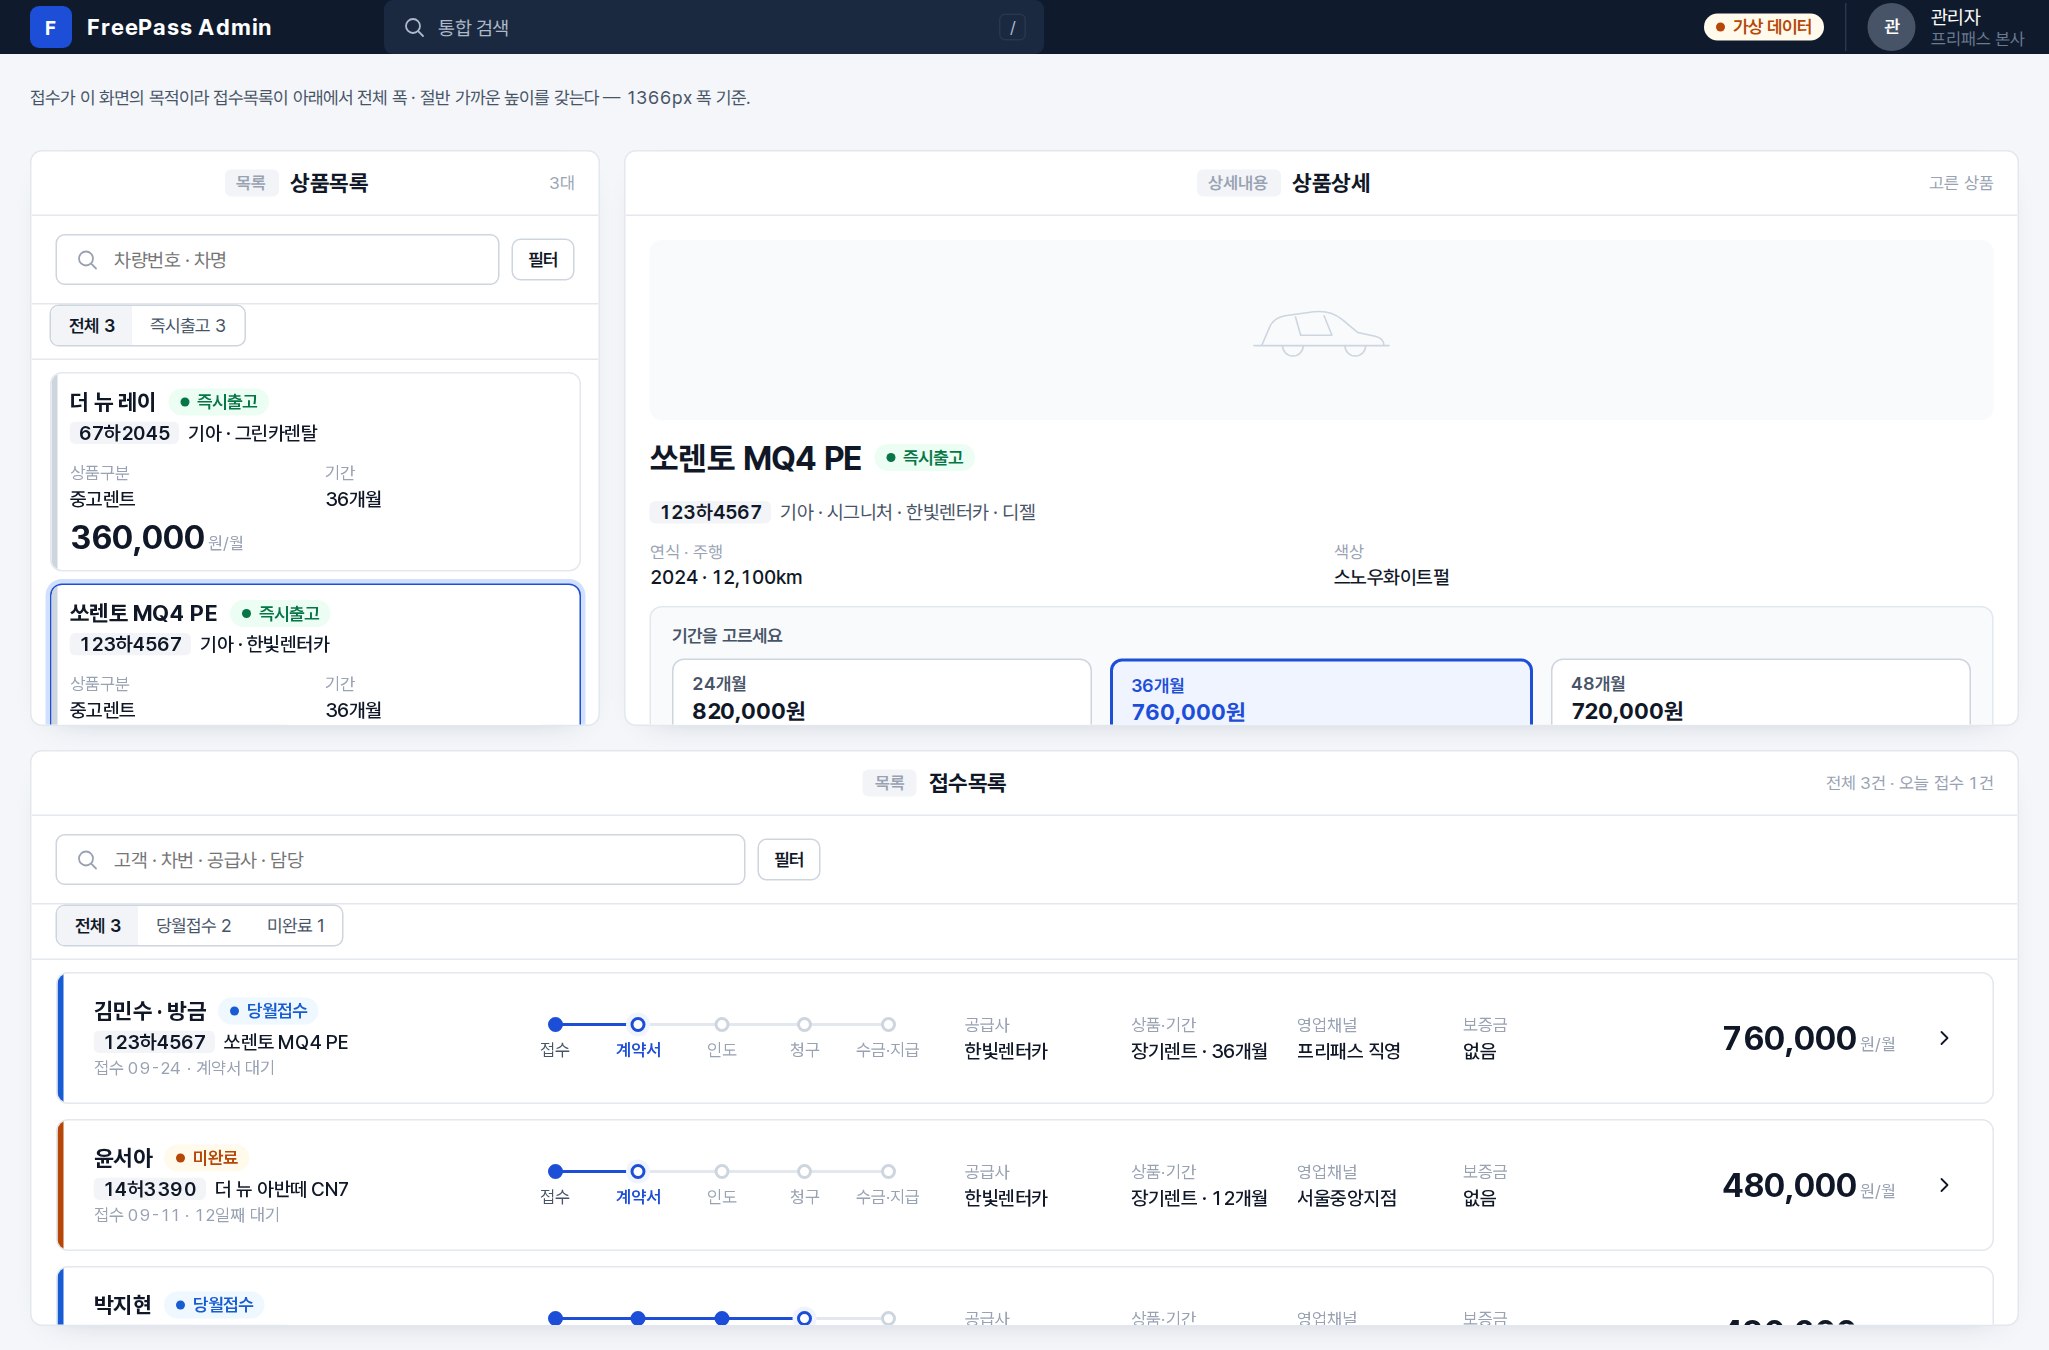
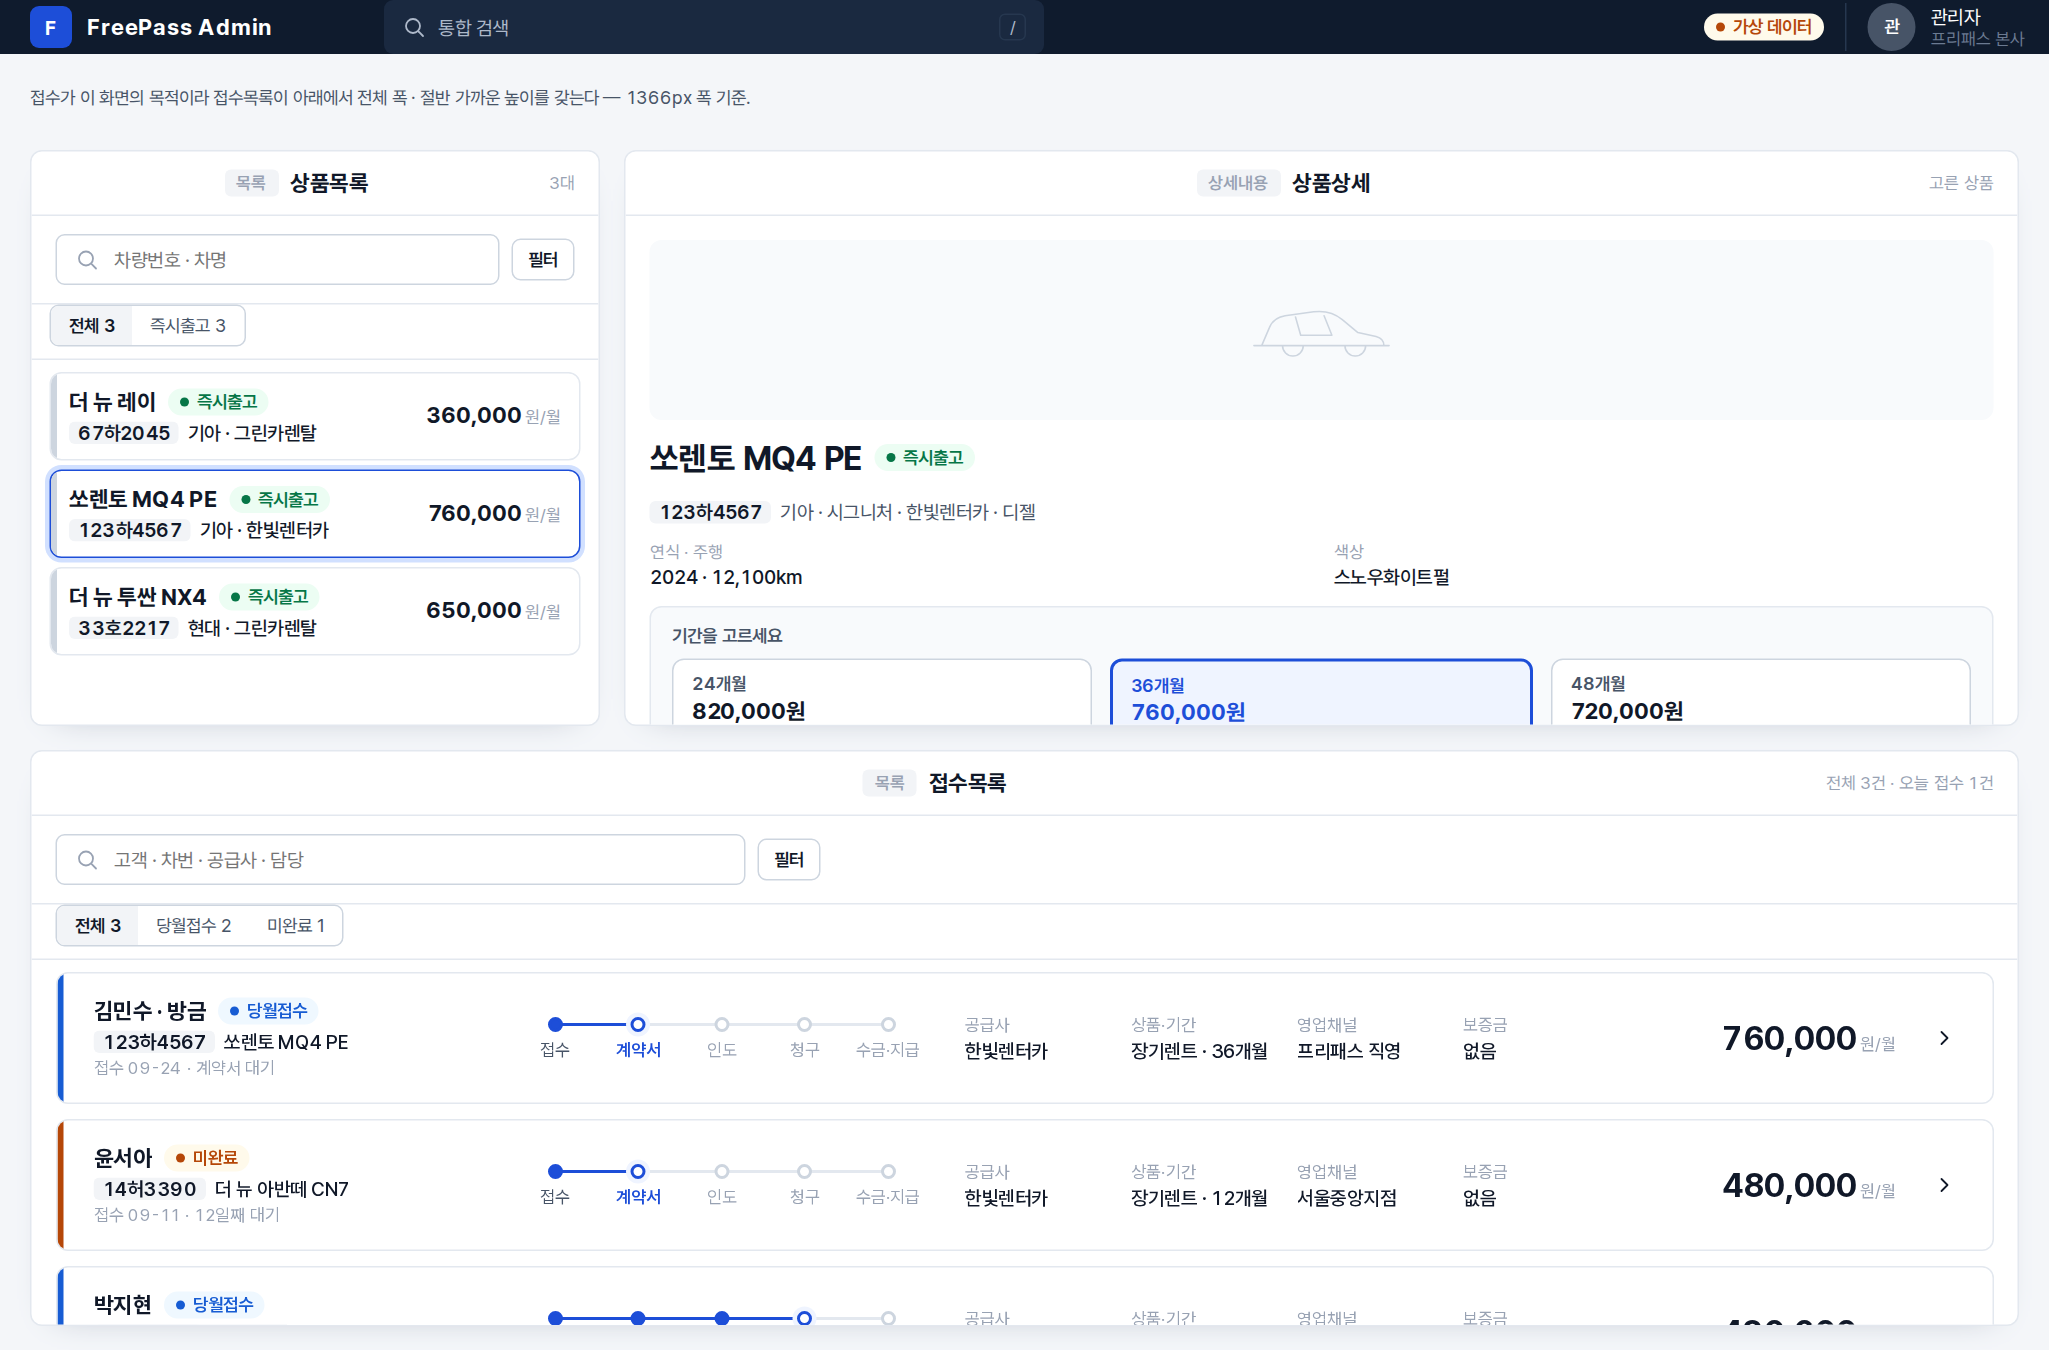
erp-panel--compact 카드를 두 줄 미리보기로 통일
대표 지시 「목록 카드 규격 통일 — 너무 크게 보여줄 필요 없다, 누르면 상세가
보이는데 계속 보고 있을 것도 아니고」 반영. 좁은 패널(compact)의 목록 카드는
대상 · §5-5 줄 수와 무관하게 뱃지 + 최소 식별 정보 + 금액, 두 줄로 통일하고
steps · facts 는 뺐다(상세내용 패널 몫). compact 를 안 붙인 넓은 패널(예:
bottom-intake 의 접수목록)은 원안 그대로라 영향 없다.

side-by-side · stacked-panels · mobile-depth 참고 그림을 다시 찍어 확인했다.

Claude-Session: https://claude.ai/code/session_01VHqvSXhUy82o1cFFrYMP3F

Changed region(s): [[0.0, 0.28, 0.2811, 0.5289], [0.2186, 0.28, 0.2811, 0.3111], [0.1562, 0.4978, 0.1874, 0.5289]]

diff --git a/design/erp-standard/erp.css b/design/erp-standard/erp.css
@@ -434,10 +434,14 @@
 /* 패널 하단 고정 버튼 — 패널 안 스크롤과 별도로, 필요한 버튼(예: 접수하기)이 항상 바닥에 붙는다 */
 .erp-panel-foot { flex: none; display: flex; gap: var(--erp-sp-2); padding: var(--erp-sp-3) var(--erp-sp-4); border-top: 1px solid var(--erp-color-line); background: var(--erp-color-surface); }
 .erp-panel-foot .erp-btn { flex: 1; justify-content: center; }
-/* 목록 패널 안 — 좁은 폭에서도 서는 작은 긴 카드(§5-3 erp-rowcard 를 그대로 쓰되 칸을 좁힌다) */
-.erp-panel--compact .erp-rowcards { padding: var(--erp-sp-2) var(--erp-sp-3) var(--erp-sp-3); gap: 8px; background: transparent; }
-.erp-panel--compact .erp-rowcard { grid-template-columns: minmax(0, 1fr); grid-template-areas: "id" "steps" "facts" "amount"; gap: 6px; padding: 10px var(--erp-sp-3); }
-.erp-panel--compact .erp-rowcard-facts { grid-template-columns: repeat(2, minmax(0, 1fr)); gap: 4px var(--erp-sp-3); }
-.erp-panel--compact .erp-rowcard-amount { text-align: left; }
+/* 목록 패널 안 — 좁은 폭에서도 서는 작은 긴 카드(§5-3 erp-rowcard 를 그대로 쓰되 칸을 좁힌다)
+ * 눌러야 상세내용 패널이 열리므로(대표 2026-09-24 「누르면 상세가 보이는데 계속 보고 있을 것도 아니고」),
+ * 여기서는 상태(뱃지)와 고르는 데 필요한 최소 식별 정보 + 금액까지만 — steps 트래커 · facts 는 상세내용 패널 몫이라 뺀다.
+ * 모든 대상(상품 · 접수 · 실적 · 정산)이 폭 · 줄 수와 무관하게 같은 두 줄 규격으로 통일된다. */
+.erp-panel--compact .erp-rowcards { padding: var(--erp-sp-2) var(--erp-sp-3) var(--erp-sp-3); gap: 6px; background: transparent; }
+.erp-panel--compact .erp-rowcard { grid-template-columns: minmax(0, 1fr) auto; grid-template-areas: "id amount"; align-items: center; gap: 2px var(--erp-sp-3); padding: 10px var(--erp-sp-3); }
+.erp-panel--compact .erp-rowcard-steps, .erp-panel--compact .erp-rowcard-facts { display: none; }
+.erp-panel--compact .erp-rowcard-amount { text-align: right; }
+.erp-panel--compact .erp-rowcard-amount strong { font-size: var(--erp-fs-section); }
 .erp-panel--compact .erp-rowcard-go { display: none; }
 .erp-rowcard-title .erp-badge, .erp-rowcard-title small { flex: none; }

diff --git a/design/erp-standard/reference/mobile-depth.html b/design/erp-standard/reference/mobile-depth.html
@@ -13,7 +13,7 @@
 </head>
 <body class="ref-page">
 <h1>폰 — 같은 패널 · 같은 카드로 뎁스 4장</h1>
-<p class="ref-desc">여기 쓴 클래스는 전부 규격(<code>erp.css</code>) 그대로다 — 폰 전용 클래스를 새로 만들지 않았다. 패널이 화면 하나가 되고, §5-5 카드(2줄·3줄)가 그 안에서 그대로 선다.</p>
+<p class="ref-desc">여기 쓴 클래스는 전부 규격(<code>erp.css</code>) 그대로다 — 폰 전용 클래스를 새로 만들지 않았다. 패널이 화면 하나가 되고, 좁은 패널(<code>erp-panel--compact</code>)에서는 대상과 무관하게 상태 · 최소 식별 정보 · 금액만 담은 두 줄 카드로 통일된다 — 깊은 정보(steps · facts)는 상세내용 패널 몫이다.</p>
 <div class="phones">
 <div class="phone-wrap"><p class="phone-cap"><b>1</b>목록 · 상품목록</p><div class="phone"><div class="phone-top">상품찾기<small>3대</small></div>
   <div class="phone-body erp-panel erp-panel-body erp-panel--compact">

diff --git a/design/erp-standard/README.md b/design/erp-standard/README.md
@@ -227,6 +227,14 @@
 걸리지 않는다. 패널이 좁을 때만(왼쪽 사이드 목록 · 폰 화면 하나) `erp-panel--compact` 를 붙인다. 패널이 넓을 때
 (접수목록을 화면 아래 전체 폭에 둘 때)는 붙이지 않고 §5-3 원안 긴 카드를 그대로 쓴다.
 
+**`erp-panel--compact` 카드 — 두 줄로 통일(미리보기)** (대표 2026-09-24 「목록 카드를 좀 규격 통일을 해보자고, 너무
+넓다고 저렇게 크게 보여줄 필요가 없지, 누르면 상세가 보이는데 계속 보고 있을 것도 아니고」). 목록 카드는 눌러서
+상세내용 패널을 여는 **미리보기**다 — 좁은 패널(compact)에서는 대상(상품 · 접수 · 실적 · 정산)이 달라도 §5-5 줄 수
+규격과 무관하게 **뱃지(상태) + 최소 식별 정보(누구 · 무슨 차) + 금액, 두 줄**로 전부 통일한다. steps 트래커와
+facts 는 상세내용 패널 몫이라 compact 에서는 아예 뺀다(`display: none`) — 어차피 상세내용 패널에서 더 정확하게 보여준다.
+넓은 패널(compact 를 안 붙인 접수목록 등)은 그대로 §5-3/§5-5 원안(steps · facts 포함)을 쓴다 — 손이 오래 머무는
+자리라 정보가 더 필요하다. 확인 그림: `images/side-by-side.png` · `images/stacked-panels.png` · `images/mobile-depth.png`.
+
 **패널 배치 — 세로로 그냥 나열(검토 후 폐기)** (대표 2026-09-24 「세로로 세 개 패널 하는 게 제일 무난하지 않을까」 →
 「아니 그냥 세로로 3개 나열」). 처음엔 세 패널을 뷰포트 안에서 3등분해 각자 안에서 스크롤시켰으나, 카드가 경계에서
 잘려 보여 대표가 바로 되돌렸다. 다시 만들어 패널마다 내용만큼만 높이를 쓰고 페이지 전체가 스크롤되게 고쳤지만
